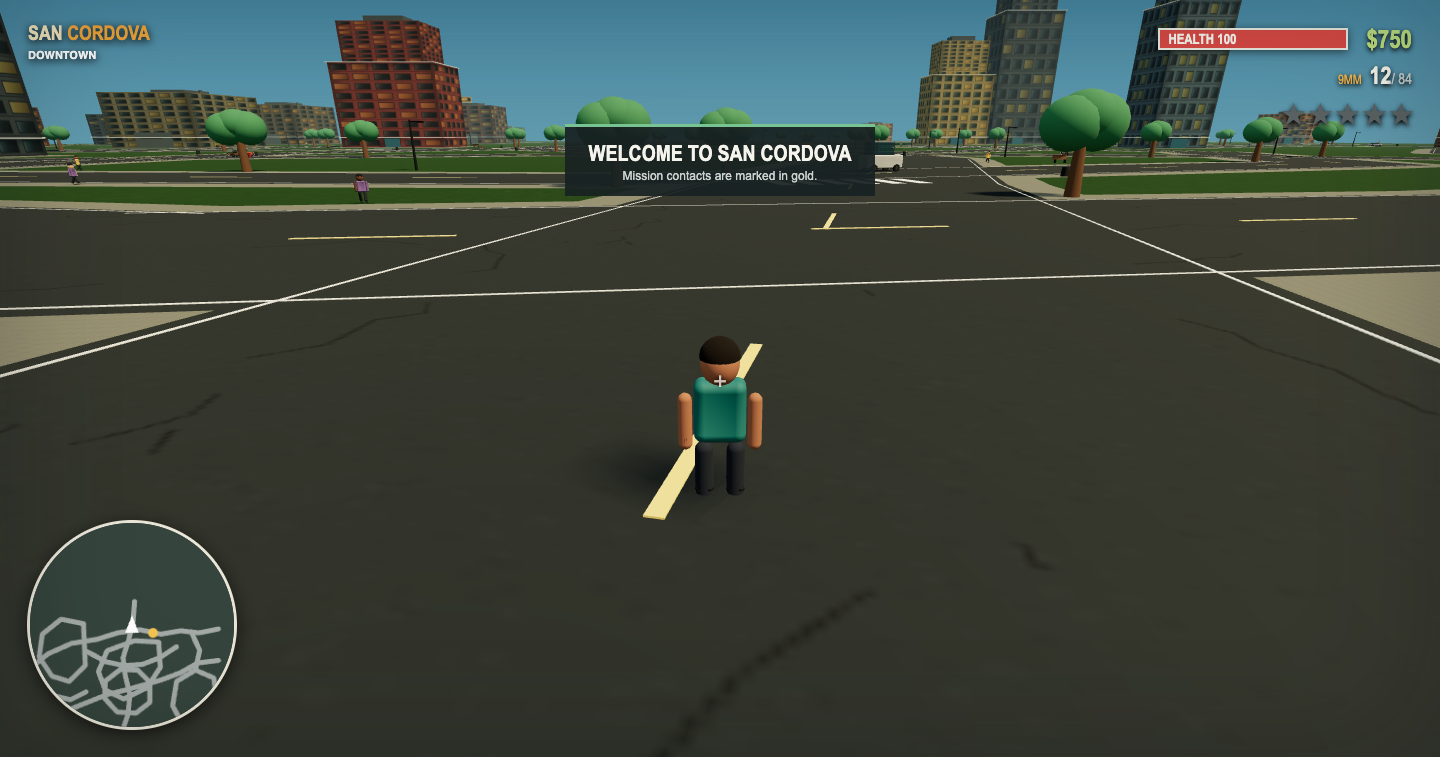
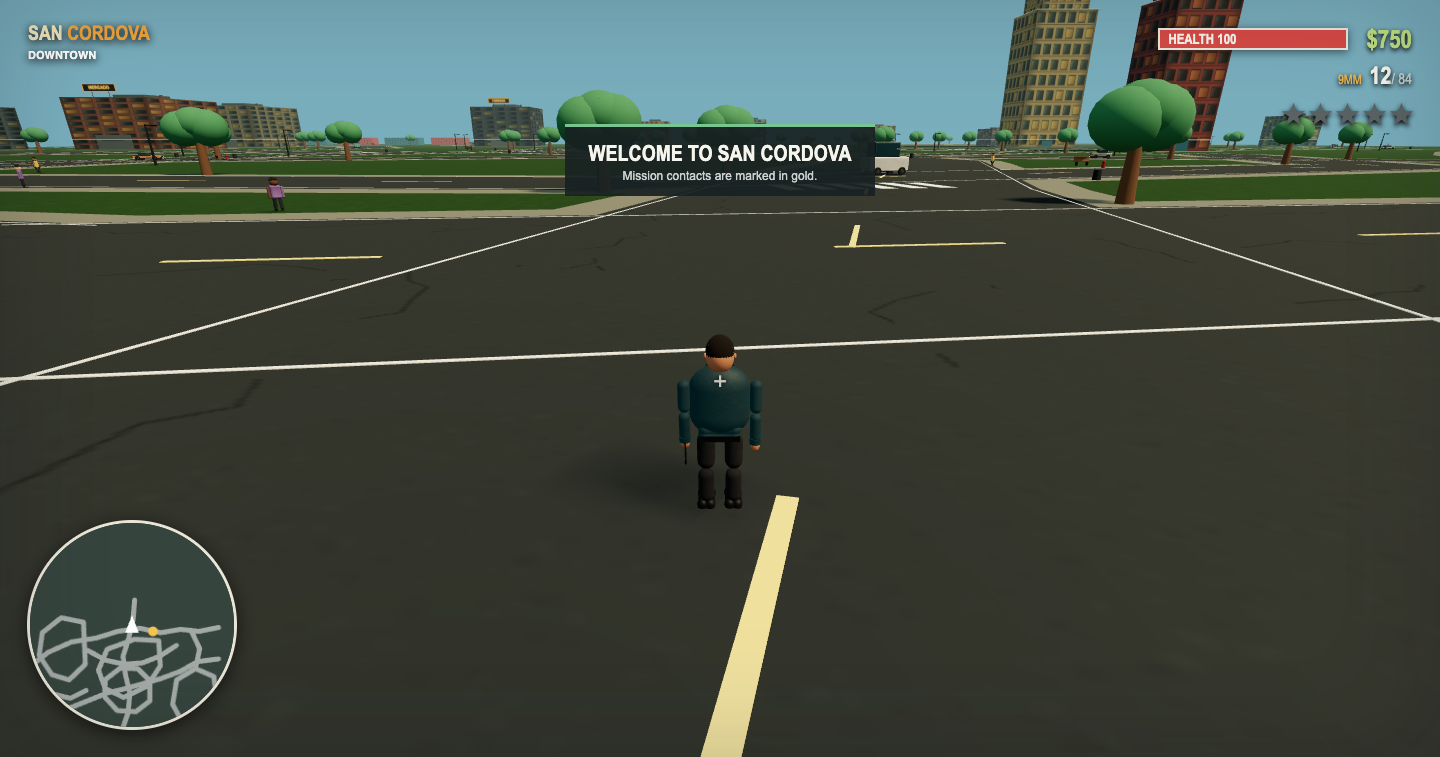
feat: upgrade player character and animation

diff --git a/src/entities/Player.ts b/src/entities/Player.ts
@@ -12,10 +12,17 @@ export class Player {
   onGround = true;
   inVehicle = false;
   heading = 0;
+  private model = new THREE.Group();
+  private torso = new THREE.Group();
+  private head = new THREE.Group();
   private leftArm = new THREE.Group();
   private rightArm = new THREE.Group();
+  private leftForearm = new THREE.Group();
+  private rightForearm = new THREE.Group();
   private leftLeg = new THREE.Group();
   private rightLeg = new THREE.Group();
+  private leftShin = new THREE.Group();
+  private rightShin = new THREE.Group();
   private walkPhase = 0;
 
   constructor(scene: THREE.Scene, position = new THREE.Vector3(0, 0, 260)) {
@@ -27,20 +34,26 @@ export class Player {
     const side = Number(input.down('KeyD')) - Number(input.down('KeyA'));
     const forward = Number(input.down('KeyW')) - Number(input.down('KeyS'));
     const move = new THREE.Vector3(side, 0, -forward);
-    if (move.lengthSq() > 0) {
+    const moving = move.lengthSq() > 0;
+    const sprinting = moving && input.down('ShiftLeft');
+    if (moving) {
       move.normalize().applyAxisAngle(new THREE.Vector3(0, 1, 0), cameraYaw);
-      const speed = input.down('ShiftLeft') ? PLAYER.sprintSpeed : PLAYER.walkSpeed;
+      const speed = sprinting ? PLAYER.sprintSpeed : PLAYER.walkSpeed;
       const desired = this.group.position.clone().addScaledVector(move, speed * dt);
       this.group.position.copy(city.clampMove(this.group.position, desired, PLAYER.radius));
-      this.heading = Math.atan2(move.x, move.z); this.group.rotation.y = this.heading;
-      this.walkPhase += dt * speed * 1.4;
-      const swing = Math.sin(this.walkPhase) * (input.down('ShiftLeft') ? 0.75 : 0.52);
-      this.leftArm.rotation.x = swing; this.rightArm.rotation.x = -swing; this.leftLeg.rotation.x = -swing; this.rightLeg.rotation.x = swing;
+      this.turnToward(Math.atan2(move.x, move.z), dt, sprinting ? 15 : 11);
+      this.walkPhase += dt * speed * 1.05;
+      this.animateLocomotion(dt, sprinting, input.firing);
     } else {
-      this.leftArm.rotation.x *= 0.8; this.rightArm.rotation.x *= 0.8; this.leftLeg.rotation.x *= 0.8; this.rightLeg.rotation.x *= 0.8;
+      if (input.firing) this.turnToward(cameraYaw + Math.PI, dt, 13);
+      this.animateIdle(dt, input.firing);
     }
     if (input.consume('Space') && this.onGround) { this.velocityY = PLAYER.jumpSpeed; this.onGround = false; }
     this.velocityY -= PLAYER.gravity * dt; this.group.position.y += this.velocityY * dt;
+    if (!this.onGround) {
+      this.leftLeg.rotation.x = THREE.MathUtils.lerp(this.leftLeg.rotation.x, -0.28, dt * 9); this.rightLeg.rotation.x = THREE.MathUtils.lerp(this.rightLeg.rotation.x, 0.22, dt * 9);
+      this.leftShin.rotation.x = THREE.MathUtils.lerp(this.leftShin.rotation.x, 0.65, dt * 9); this.rightShin.rotation.x = THREE.MathUtils.lerp(this.rightShin.rotation.x, 0.48, dt * 9);
+    }
     if (this.group.position.y <= 0) { this.group.position.y = 0; this.velocityY = 0; this.onGround = true; }
   }
 
@@ -48,24 +61,123 @@ export class Player {
   heal(): void { this.health = this.maxHealth; }
   setVisible(visible: boolean): void { this.group.visible = visible; }
 
-  private buildModel(): void {
-    const skin = new THREE.MeshStandardMaterial({ color: 0x9a654b, roughness: 0.78 });
-    const jacket = new THREE.MeshStandardMaterial({ color: 0x286c69, roughness: 0.62 });
-    const trousers = new THREE.MeshStandardMaterial({ color: 0x252b37, roughness: 0.82 });
-    const head = new THREE.Mesh(new THREE.SphereGeometry(0.24, 18, 14), skin); head.position.y = 1.63; head.scale.set(0.9, 1.08, 0.94);
-    const hair = new THREE.Mesh(new THREE.SphereGeometry(0.225, 16, 10, 0, Math.PI * 2, 0, Math.PI * 0.52), new THREE.MeshStandardMaterial({ color: 0x1b1715, roughness: 0.95 })); hair.position.set(0, 1.7, 0);
-    const torso = new THREE.Mesh(new RoundedBoxGeometry(0.58, 0.72, 0.32, 4, 0.1), jacket); torso.position.y = 1.08;
-    const shirt = new THREE.Mesh(new THREE.PlaneGeometry(0.17, 0.5), new THREE.MeshStandardMaterial({ color: 0xd4d0be, roughness: 0.8 })); shirt.position.set(0, 1.12, 0.166);
-    this.addLimb(this.leftArm, -0.39, 1.28, skin, 0.16, 0.68); this.addLimb(this.rightArm, 0.39, 1.28, skin, 0.16, 0.68);
-    this.addLimb(this.leftLeg, -0.18, 0.7, trousers, 0.21, 0.76); this.addLimb(this.rightLeg, 0.18, 0.7, trousers, 0.21, 0.76);
-    for (const x of [-0.08, 0.08]) { const eye = new THREE.Mesh(new THREE.SphereGeometry(0.018, 8, 6), new THREE.MeshBasicMaterial({ color: 0x171b1c })); eye.position.set(x, 1.66, 0.222); this.group.add(eye); }
-    for (const x of [-0.18, 0.18]) { const shoe = new THREE.Mesh(new RoundedBoxGeometry(0.22, 0.13, 0.36, 3, 0.05), new THREE.MeshStandardMaterial({ color: 0x121719, roughness: 0.62 })); shoe.position.set(x, 0.12, 0.08); this.group.add(shoe); }
-    const pistol = new THREE.Mesh(new RoundedBoxGeometry(0.09, 0.13, 0.34, 2, 0.02), new THREE.MeshStandardMaterial({ color: 0x252b2d, metalness: 0.72, roughness: 0.3 })); pistol.position.set(0, -0.58, 0.14); this.rightArm.add(pistol);
-    this.group.add(head, hair, torso, shirt, this.leftArm, this.rightArm, this.leftLeg, this.rightLeg);
-    this.group.traverse((object: THREE.Object3D) => { if (object instanceof THREE.Mesh) object.castShadow = true; });
+  private turnToward(target: number, dt: number, rate: number): void {
+    const delta = Math.atan2(Math.sin(target - this.heading), Math.cos(target - this.heading));
+    this.heading += delta * Math.min(1, dt * rate); this.group.rotation.y = this.heading;
   }
 
-  private addLimb(group: THREE.Group, x: number, y: number, material: THREE.Material, width: number, height: number): void {
-    group.position.set(x, y, 0); const mesh = new THREE.Mesh(new THREE.CapsuleGeometry(width / 2, Math.max(0.1, height - width), 5, 10), material); mesh.position.y = -height / 2; group.add(mesh);
+  private animateLocomotion(dt: number, sprinting: boolean, aiming: boolean): void {
+    const cycle = Math.sin(this.walkPhase); const stride = sprinting ? 0.82 : 0.58;
+    this.leftLeg.rotation.x = THREE.MathUtils.lerp(this.leftLeg.rotation.x, cycle * stride, dt * 14);
+    this.rightLeg.rotation.x = THREE.MathUtils.lerp(this.rightLeg.rotation.x, -cycle * stride, dt * 14);
+    this.leftShin.rotation.x = THREE.MathUtils.lerp(this.leftShin.rotation.x, Math.max(0, -cycle) * (sprinting ? 1.05 : 0.72), dt * 15);
+    this.rightShin.rotation.x = THREE.MathUtils.lerp(this.rightShin.rotation.x, Math.max(0, cycle) * (sprinting ? 1.05 : 0.72), dt * 15);
+    if (aiming) this.animateAim(dt);
+    else {
+      this.leftArm.rotation.x = THREE.MathUtils.lerp(this.leftArm.rotation.x, -cycle * stride * 0.78, dt * 13);
+      this.rightArm.rotation.x = THREE.MathUtils.lerp(this.rightArm.rotation.x, cycle * stride * 0.78, dt * 13);
+      this.leftArm.rotation.z = THREE.MathUtils.lerp(this.leftArm.rotation.z, 0, dt * 11); this.rightArm.rotation.z = THREE.MathUtils.lerp(this.rightArm.rotation.z, 0, dt * 11);
+      this.leftForearm.rotation.x = THREE.MathUtils.lerp(this.leftForearm.rotation.x, sprinting ? -0.42 : -0.15, dt * 11);
+      this.rightForearm.rotation.x = THREE.MathUtils.lerp(this.rightForearm.rotation.x, sprinting ? -0.42 : -0.15, dt * 11);
+    }
+    this.model.position.y = Math.abs(Math.sin(this.walkPhase * 2)) * (sprinting ? 0.035 : 0.018);
+    this.model.rotation.x = THREE.MathUtils.lerp(this.model.rotation.x, sprinting ? 0.08 : 0.018, dt * 8);
+    this.torso.rotation.z = Math.sin(this.walkPhase) * (sprinting ? 0.045 : 0.022);
+    this.torso.scale.y = THREE.MathUtils.lerp(this.torso.scale.y, 1, dt * 8);
+    this.head.rotation.y = Math.sin(this.walkPhase * 0.5) * 0.035;
+  }
+
+  private animateIdle(dt: number, aiming: boolean): void {
+    const breathe = Math.sin(performance.now() * 0.0018);
+    this.leftLeg.rotation.x *= Math.exp(-dt * 9); this.rightLeg.rotation.x *= Math.exp(-dt * 9);
+    this.leftShin.rotation.x *= Math.exp(-dt * 10); this.rightShin.rotation.x *= Math.exp(-dt * 10);
+    if (aiming) this.animateAim(dt);
+    else {
+      this.leftArm.rotation.x = THREE.MathUtils.lerp(this.leftArm.rotation.x, 0.035 + breathe * 0.018, dt * 8);
+      this.rightArm.rotation.x = THREE.MathUtils.lerp(this.rightArm.rotation.x, -0.035 - breathe * 0.018, dt * 8);
+      this.leftArm.rotation.z = THREE.MathUtils.lerp(this.leftArm.rotation.z, 0, dt * 8); this.rightArm.rotation.z = THREE.MathUtils.lerp(this.rightArm.rotation.z, 0, dt * 8);
+      this.leftForearm.rotation.x = THREE.MathUtils.lerp(this.leftForearm.rotation.x, -0.12, dt * 8);
+      this.rightForearm.rotation.x = THREE.MathUtils.lerp(this.rightForearm.rotation.x, -0.12, dt * 8);
+    }
+    this.model.position.y = breathe * 0.004; this.model.rotation.x = THREE.MathUtils.lerp(this.model.rotation.x, 0, dt * 8); this.torso.rotation.z *= Math.exp(-dt * 8); this.head.rotation.y = Math.sin(performance.now() * 0.00055) * 0.045;
+    this.torso.scale.y = 1 + breathe * 0.004;
+  }
+
+  private animateAim(dt: number): void {
+    this.rightArm.rotation.x = THREE.MathUtils.lerp(this.rightArm.rotation.x, -1.46, dt * 14); this.rightArm.rotation.z = THREE.MathUtils.lerp(this.rightArm.rotation.z, -0.09, dt * 12);
+    this.leftArm.rotation.x = THREE.MathUtils.lerp(this.leftArm.rotation.x, -1.28, dt * 14); this.leftArm.rotation.z = THREE.MathUtils.lerp(this.leftArm.rotation.z, 0.28, dt * 12);
+    this.rightForearm.rotation.x = THREE.MathUtils.lerp(this.rightForearm.rotation.x, -0.06, dt * 14); this.leftForearm.rotation.x = THREE.MathUtils.lerp(this.leftForearm.rotation.x, -0.16, dt * 14);
+    this.head.rotation.y = THREE.MathUtils.lerp(this.head.rotation.y, 0.06, dt * 10);
+  }
+
+  private buildModel(): void {
+    const jacketTexture = this.loadTexture('/textures/character/teal-jacket-gpt.jpg', 1.6);
+    const denimTexture = this.loadTexture('/textures/character/charcoal-denim-gpt.jpg', 1.8);
+    const skin = new THREE.MeshPhysicalMaterial({ color: 0xa66f52, roughness: 0.73, clearcoat: 0.08, clearcoatRoughness: 0.8 });
+    const jacket = new THREE.MeshStandardMaterial({ color: 0xffffff, map: jacketTexture, roughness: 0.64, metalness: 0.03, emissive: 0x0b3538, emissiveIntensity: 0.38 });
+    const denim = new THREE.MeshStandardMaterial({ color: 0xd8dce0, map: denimTexture, roughness: 0.82, emissive: 0x111319, emissiveIntensity: 0.16 });
+    const shirt = new THREE.MeshStandardMaterial({ color: 0xe2dfd2, roughness: 0.88 });
+    const hair = new THREE.MeshStandardMaterial({ color: 0x171311, roughness: 0.96 });
+    const leather = new THREE.MeshStandardMaterial({ color: 0x111518, roughness: 0.42, metalness: 0.08 });
+    const metal = new THREE.MeshStandardMaterial({ color: 0x252b2d, metalness: 0.76, roughness: 0.28 });
+
+    this.buildTorso(jacket, shirt, leather, metal);
+    this.buildHead(skin, hair);
+    this.buildArm(this.leftArm, this.leftForearm, -0.355, jacket, skin, false, metal);
+    this.buildArm(this.rightArm, this.rightForearm, 0.355, jacket, skin, true, metal);
+    this.buildLeg(this.leftLeg, this.leftShin, -0.14, denim, leather);
+    this.buildLeg(this.rightLeg, this.rightShin, 0.14, denim, leather);
+    this.model.add(this.torso, this.head, this.leftArm, this.rightArm, this.leftLeg, this.rightLeg); this.group.add(this.model);
+    this.group.traverse((object: THREE.Object3D) => { if (object instanceof THREE.Mesh) { object.castShadow = true; object.receiveShadow = true; object.frustumCulled = false; } });
+  }
+
+  private buildTorso(jacket: THREE.Material, shirt: THREE.Material, leather: THREE.Material, metal: THREE.Material): void {
+    const chest = new THREE.Mesh(new THREE.CapsuleGeometry(0.235, 0.27, 10, 24), jacket); chest.position.y = 1.22; chest.scale.set(1.28, 1, 0.76); this.torso.add(chest);
+    const waist = new THREE.Mesh(new RoundedBoxGeometry(0.43, 0.2, 0.27, 5, 0.07), jacket); waist.position.y = 0.91; this.torso.add(waist);
+    const undershirt = new THREE.Mesh(new RoundedBoxGeometry(0.16, 0.43, 0.025, 3, 0.01), shirt); undershirt.position.set(0, 1.24, 0.184); this.torso.add(undershirt);
+    const zipper = new THREE.Mesh(new THREE.BoxGeometry(0.014, 0.5, 0.012), metal); zipper.position.set(0, 1.22, 0.205); this.torso.add(zipper);
+    for (const side of [-1, 1]) {
+      const collar = new THREE.Mesh(new RoundedBoxGeometry(0.15, 0.24, 0.045, 3, 0.015), jacket); collar.position.set(side * 0.09, 1.48, 0.17); collar.rotation.z = side * 0.42; this.torso.add(collar);
+      const pocket = new THREE.Mesh(new RoundedBoxGeometry(0.11, 0.08, 0.022, 2, 0.008), leather); pocket.position.set(side * 0.17, 1.14, 0.183); this.torso.add(pocket);
+    }
+    const belt = new THREE.Mesh(new THREE.BoxGeometry(0.4, 0.055, 0.285), leather); belt.position.y = 0.86; this.torso.add(belt);
+    const buckle = new THREE.Mesh(new RoundedBoxGeometry(0.08, 0.065, 0.026, 2, 0.01), metal); buckle.position.set(0, 0.86, 0.16); this.torso.add(buckle);
+  }
+
+  private buildHead(skin: THREE.Material, hair: THREE.Material): void {
+    this.head.position.y = 1.68;
+    const neck = new THREE.Mesh(new THREE.CylinderGeometry(0.085, 0.1, 0.16, 18), skin); neck.position.y = -0.21;
+    const face = new THREE.Mesh(new THREE.SphereGeometry(0.165, 32, 24), skin); face.scale.set(0.84, 1.08, 0.94);
+    const hairCap = new THREE.Mesh(new THREE.SphereGeometry(0.162, 28, 16, 0, Math.PI * 2, 0, Math.PI * 0.56), hair); hairCap.position.y = 0.042; hairCap.scale.set(0.86, 1.02, 0.95);
+    this.head.add(neck, face, hairCap);
+    for (const side of [-1, 1]) {
+      const ear = new THREE.Mesh(new THREE.SphereGeometry(0.03, 12, 9), skin); ear.position.set(side * 0.142, 0, 0); ear.scale.set(0.55, 1, 0.65); this.head.add(ear);
+      const eyeWhite = new THREE.Mesh(new THREE.SphereGeometry(0.022, 12, 9), new THREE.MeshPhysicalMaterial({ color: 0xf2eee4, roughness: 0.28 })); eyeWhite.position.set(side * 0.056, 0.02, 0.153); eyeWhite.scale.set(1.2, 0.72, 0.45);
+      const iris = new THREE.Mesh(new THREE.SphereGeometry(0.009, 10, 8), new THREE.MeshBasicMaterial({ color: 0x202b26 })); iris.position.set(side * 0.056, 0.02, 0.171);
+      const brow = new THREE.Mesh(new RoundedBoxGeometry(0.057, 0.011, 0.009, 2, 0.003), hair); brow.position.set(side * 0.056, 0.059, 0.157); brow.rotation.z = side * -0.08; this.head.add(eyeWhite, iris, brow);
+    }
+    const nose = new THREE.Mesh(new THREE.ConeGeometry(0.022, 0.056, 12), skin); nose.rotation.x = Math.PI / 2; nose.position.set(0, -0.012, 0.174); this.head.add(nose);
+    const mouth = new THREE.Mesh(new THREE.TorusGeometry(0.029, 0.0045, 6, 16, Math.PI), new THREE.MeshStandardMaterial({ color: 0x66372e, roughness: 0.75 })); mouth.position.set(0, -0.063, 0.154); mouth.rotation.z = Math.PI; this.head.add(mouth);
+  }
+
+  private buildArm(arm: THREE.Group, forearm: THREE.Group, x: number, jacket: THREE.Material, skin: THREE.Material, armed: boolean, metal: THREE.Material): void {
+    arm.position.set(x, 1.43, 0); const upper = new THREE.Mesh(new THREE.CapsuleGeometry(0.062, 0.22, 7, 16), jacket); upper.position.y = -0.17; arm.add(upper);
+    forearm.position.y = -0.34; const lower = new THREE.Mesh(new THREE.CapsuleGeometry(0.056, 0.2, 7, 16), jacket); lower.position.y = -0.16;
+    const cuff = new THREE.Mesh(new THREE.CylinderGeometry(0.062, 0.057, 0.066, 16), jacket); cuff.position.y = -0.31;
+    const hand = new THREE.Mesh(new THREE.SphereGeometry(0.055, 16, 12), skin); hand.position.y = -0.37; hand.scale.set(0.86, 1.18, 0.74); forearm.add(lower, cuff, hand); arm.add(forearm);
+    if (armed) {
+      const slide = new THREE.Mesh(new RoundedBoxGeometry(0.075, 0.3, 0.095, 4, 0.025), metal); slide.position.set(0, -0.49, 0.015);
+      const grip = new THREE.Mesh(new RoundedBoxGeometry(0.068, 0.16, 0.1, 3, 0.02), new THREE.MeshStandardMaterial({ color: 0x131719, roughness: 0.52 })); grip.position.set(0, -0.4, -0.015); grip.rotation.x = -0.18; forearm.add(slide, grip);
+    }
+  }
+
+  private buildLeg(leg: THREE.Group, shin: THREE.Group, x: number, denim: THREE.Material, leather: THREE.Material): void {
+    leg.position.set(x, 0.88, 0); const thigh = new THREE.Mesh(new THREE.CapsuleGeometry(0.091, 0.22, 8, 18), denim); thigh.position.y = -0.2; leg.add(thigh);
+    shin.position.y = -0.4; const lower = new THREE.Mesh(new THREE.CapsuleGeometry(0.082, 0.21, 8, 18), denim); lower.position.y = -0.19;
+    const shoe = new THREE.Mesh(new RoundedBoxGeometry(0.19, 0.13, 0.34, 5, 0.055), leather); shoe.position.set(0, -0.4, 0.075); shin.add(lower, shoe); leg.add(shin);
+  }
+
+  private loadTexture(url: string, repeat: number): THREE.Texture {
+    const texture = new THREE.TextureLoader().load(url); texture.wrapS = texture.wrapT = THREE.RepeatWrapping; texture.repeat.set(repeat, repeat); texture.colorSpace = THREE.SRGBColorSpace; texture.anisotropy = 8; return texture;
   }
 }

diff --git a/src/core/CameraController.ts b/src/core/CameraController.ts
@@ -15,9 +15,10 @@ export class CameraController {
     this.yaw -= input.mouseDX * sensitivity;
     this.pitch = THREE.MathUtils.clamp(this.pitch - input.mouseDY * sensitivity, -0.1, 0.9);
     this.aiming = input.firing && !vehicle;
-    const distance = this.aiming ? 4.8 : vehicle ? 10.5 : 7.2;
+    const distance = this.aiming ? 4.65 : vehicle ? 10.5 : 6.35;
     const height = vehicle ? 2.6 : 1.45;
     this.focus.set(target.x, target.y + height, target.z);
+    if (this.aiming) { this.focus.x += Math.cos(this.yaw) * 0.62; this.focus.z -= Math.sin(this.yaw) * 0.62; }
     const horizontal = Math.cos(this.pitch) * distance;
     this.desired.set(
       this.focus.x + Math.sin(this.yaw) * horizontal,

diff --git a/ATTRIBUTIONS.md b/ATTRIBUTIONS.md
@@ -21,5 +21,7 @@ San Cordova does not ship third-party art or audio assets.
 
 - `public/textures/asphalt-gpt.jpg` - seamless coastal-city asphalt generated for this project with OpenAI GPT Image, then resized and JPEG-optimized locally.
 - `public/textures/concrete-gpt.jpg` - seamless weathered concrete pavement generated for this project with OpenAI GPT Image, then resized and JPEG-optimized locally.
+- `public/textures/character/teal-jacket-gpt.jpg` - seamless dark-teal technical jacket fabric generated with OpenAI GPT Image for the player character.
+- `public/textures/character/charcoal-denim-gpt.jpg` - seamless charcoal denim generated with OpenAI GPT Image for the player character.
 
 No Grand Theft Auto maps, logos, characters, dialogue, music, sound effects, or other copyrighted assets are included.

diff --git a/README.md b/README.md
@@ -59,7 +59,7 @@ Progress is saved periodically and after mission rewards. Money, completed missi
 - **Mercado Industrial**: warehouses, containers, docks, and a ramp.
 - **Costa Azul**: beach frontage, water, garages, and open roads.
 - **Cordova Commons**: intersecting paths and public green space.
-- Animated low-poly player and pedestrian characters with walking, idling, fleeing, hostile, damaged, and down states.
+- A detailed articulated player character with GPT Image fabric materials, layered clothing, facial features, jointed elbows and knees, procedural footwork, breathing, sprinting, jumping, and two-handed aiming poses.
 - Compact, sport, van, and police vehicle configurations with distinct speed, acceleration, turning, braking, durability, wheels, brake lights, engine synthesis, and recovery.
 - Twelve connected road systems with curved arterials, diagonal boulevards, district loops, industrial spurs, residential crescents, a harbor drive, parking areas, and road-derived traffic/minimap routing.
 - Pooled lane-following traffic routes, recycling, stuck recovery, simplified distance updates, and collision response.